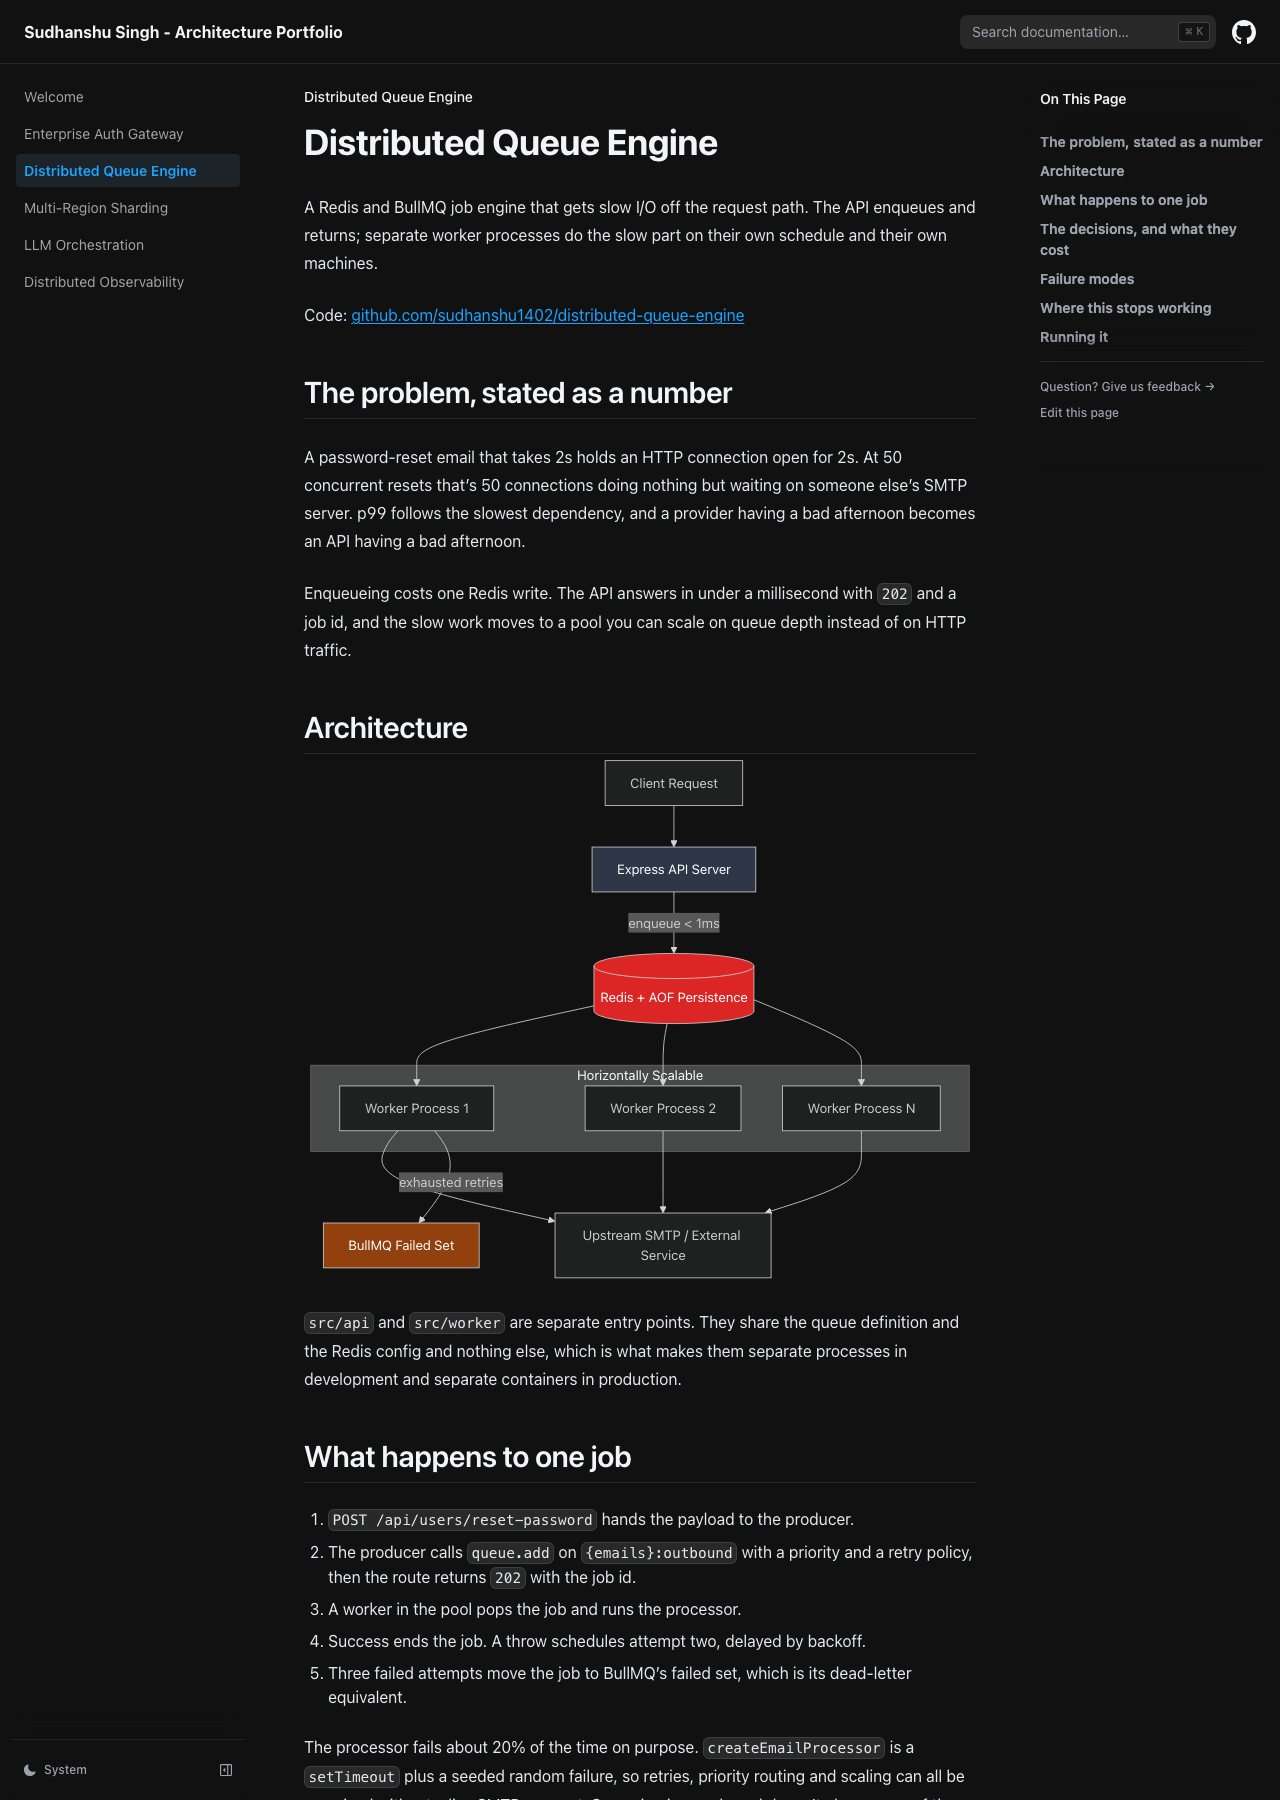
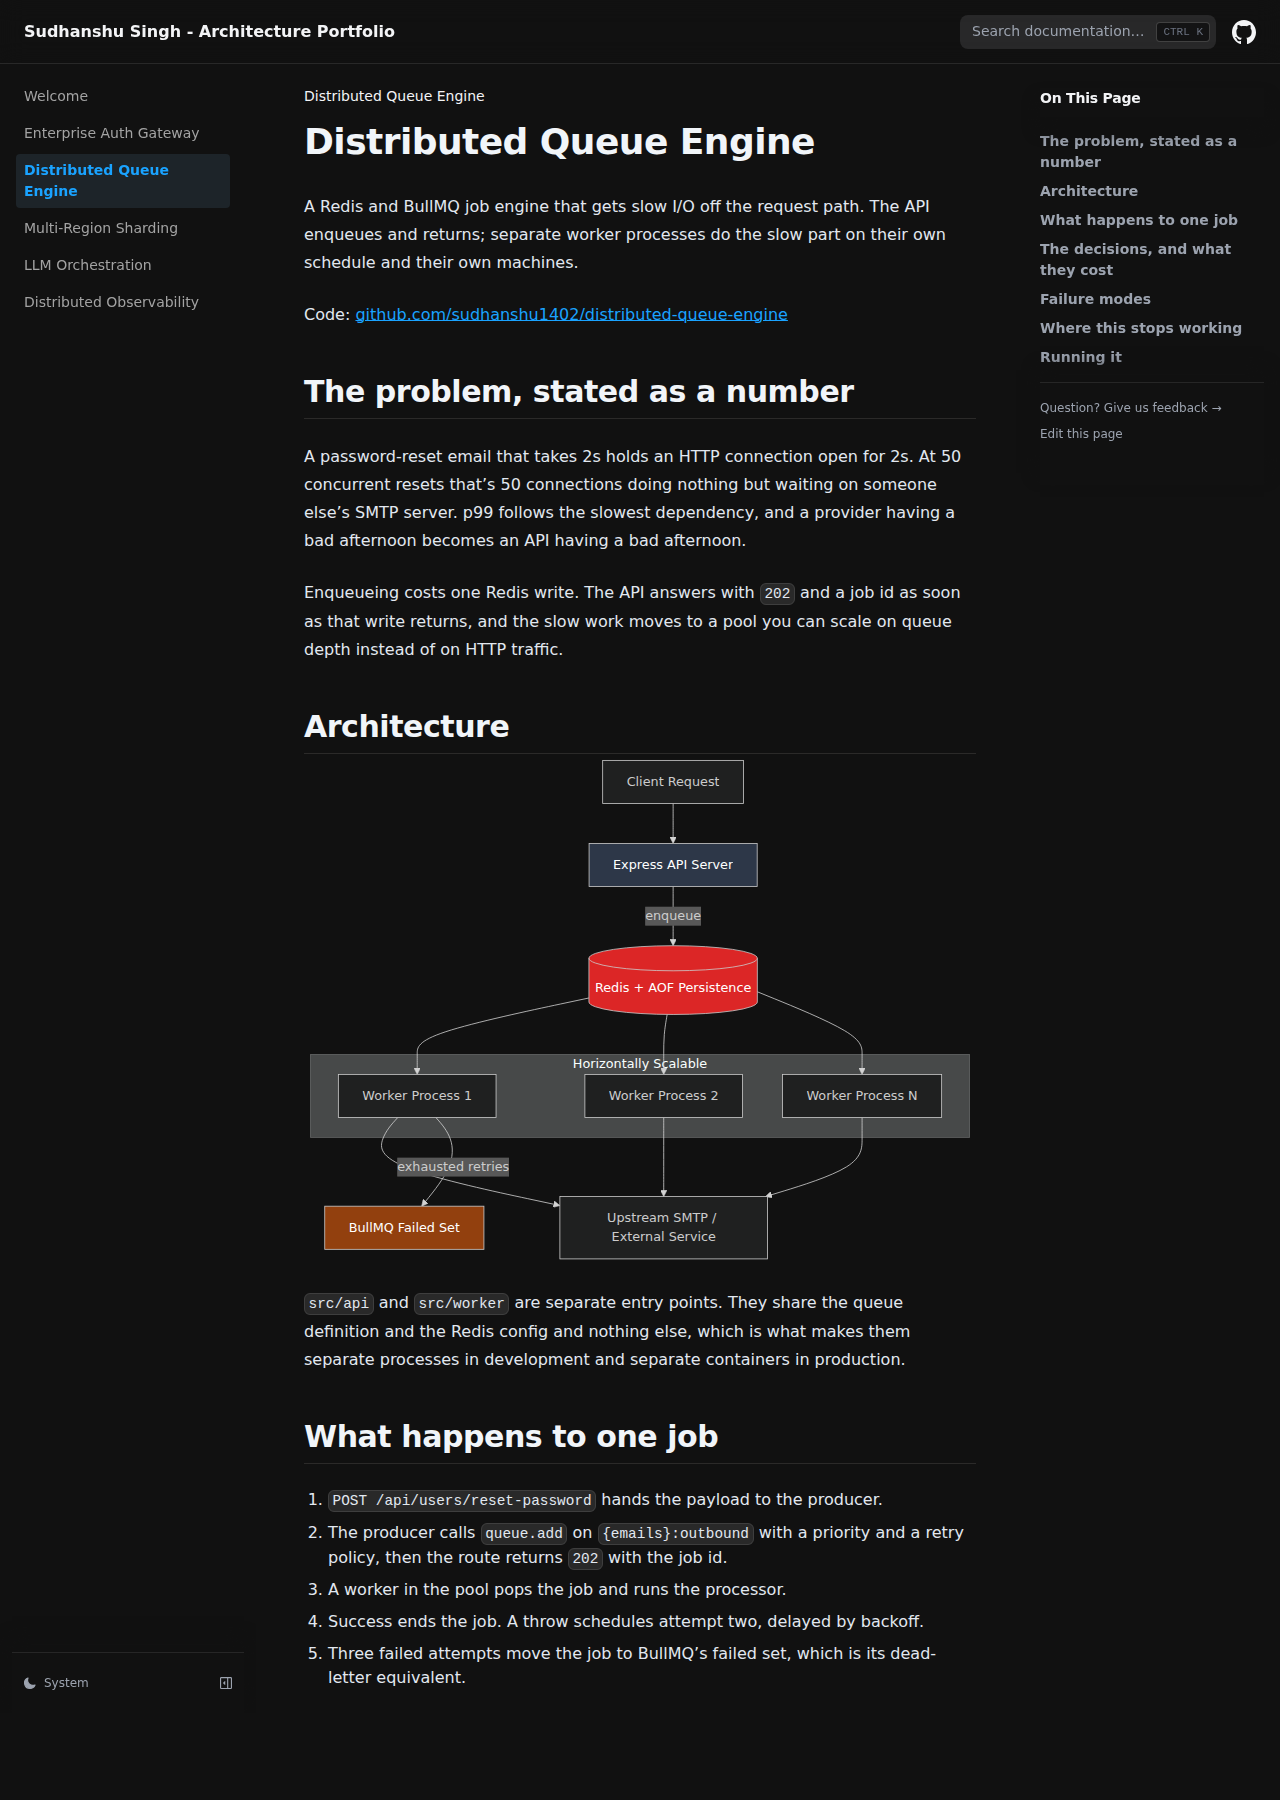
Regenerate the queue-engine screenshot without the unmeasured enqueue latency
The page text dropped "< 1ms" and "under a millisecond" in #8, but the
README screenshot and its alt text still showed them. Screenshot rerun with
scripts/make-screens.sh against the live site; only queue-engine.png kept.

diff --git a/README.md b/README.md
@@ -14,7 +14,7 @@ The index lists the write-ups by the design question each one answers, not by te
 
 |  |  |
 | --- | --- |
-| <img src="https://raw.githubusercontent.com/sudhanshu1402/system-design-portal/main/assets/screens/auth-stack.png" width="100%" alt="Diagram of a browser going through Express and Passport.js to an enterprise IdP, AWS Secrets Manager and an internal JWT." /><br />**[Enterprise Auth Gateway](https://sudhanshu1402.github.io/system-design-portal/auth-stack/)** turns a tenant's SAML assertion into one internal JWT. Code: [enterprise-auth-stack](https://github.com/sudhanshu1402/enterprise-auth-stack) | <img src="https://raw.githubusercontent.com/sudhanshu1402/system-design-portal/main/assets/screens/queue-engine.png" width="100%" alt="Diagram of a request enqueued to Redis in under a millisecond and drained by a scalable worker pool." /><br />**[Distributed Queue Engine](https://sudhanshu1402.github.io/system-design-portal/queue-engine/)** gets a 2 second dependency off the request path. Code: [distributed-queue-engine](https://github.com/sudhanshu1402/distributed-queue-engine) |
+| <img src="https://raw.githubusercontent.com/sudhanshu1402/system-design-portal/main/assets/screens/auth-stack.png" width="100%" alt="Diagram of a browser going through Express and Passport.js to an enterprise IdP, AWS Secrets Manager and an internal JWT." /><br />**[Enterprise Auth Gateway](https://sudhanshu1402.github.io/system-design-portal/auth-stack/)** turns a tenant's SAML assertion into one internal JWT. Code: [enterprise-auth-stack](https://github.com/sudhanshu1402/enterprise-auth-stack) | <img src="https://raw.githubusercontent.com/sudhanshu1402/system-design-portal/main/assets/screens/queue-engine.png" width="100%" alt="Diagram of a request enqueued to Redis and drained by a scalable worker pool." /><br />**[Distributed Queue Engine](https://sudhanshu1402.github.io/system-design-portal/queue-engine/)** gets a 2 second dependency off the request path. Code: [distributed-queue-engine](https://github.com/sudhanshu1402/distributed-queue-engine) |
 | <img src="https://raw.githubusercontent.com/sudhanshu1402/system-design-portal/main/assets/screens/mongo-sharding.png" width="100%" alt="Diagram of one mongos router splitting queries by region tag into EU, USA and KSA shards." /><br />**[Multi-Region Sharding](https://sudhanshu1402.github.io/system-design-portal/mongo-sharding/)** keeps EU data in the EU behind one connection string. Code: [multi-region-mongo-patterns](https://github.com/sudhanshu1402/multi-region-mongo-patterns) | <img src="https://raw.githubusercontent.com/sudhanshu1402/system-design-portal/main/assets/screens/llm-pipeline.png" width="100%" alt="Diagram of an orchestrator calling GPT-4o-mini, failing over to Gemini, then parsing both through a Zod schema." /><br />**[LLM Orchestration](https://sudhanshu1402.github.io/system-design-portal/llm-pipeline/)** keeps almost-valid model output out of the database. Code: [llm-assessment-pipeline](https://github.com/sudhanshu1402/llm-assessment-pipeline) |
 | <img src="https://raw.githubusercontent.com/sudhanshu1402/system-design-portal/main/assets/screens/tracing-sdk.png" width="100%" alt="Diagram of a Node app sending trace-stamped Pino logs and OTLP gRPC spans to an OpenTelemetry Collector." /><br />**[Distributed Observability](https://sudhanshu1402.github.io/system-design-portal/tracing-sdk/)** ties a log line to the trace it happened in. Code: [otel-sdk-node](https://github.com/sudhanshu1402/otel-sdk-node) |  |
 
